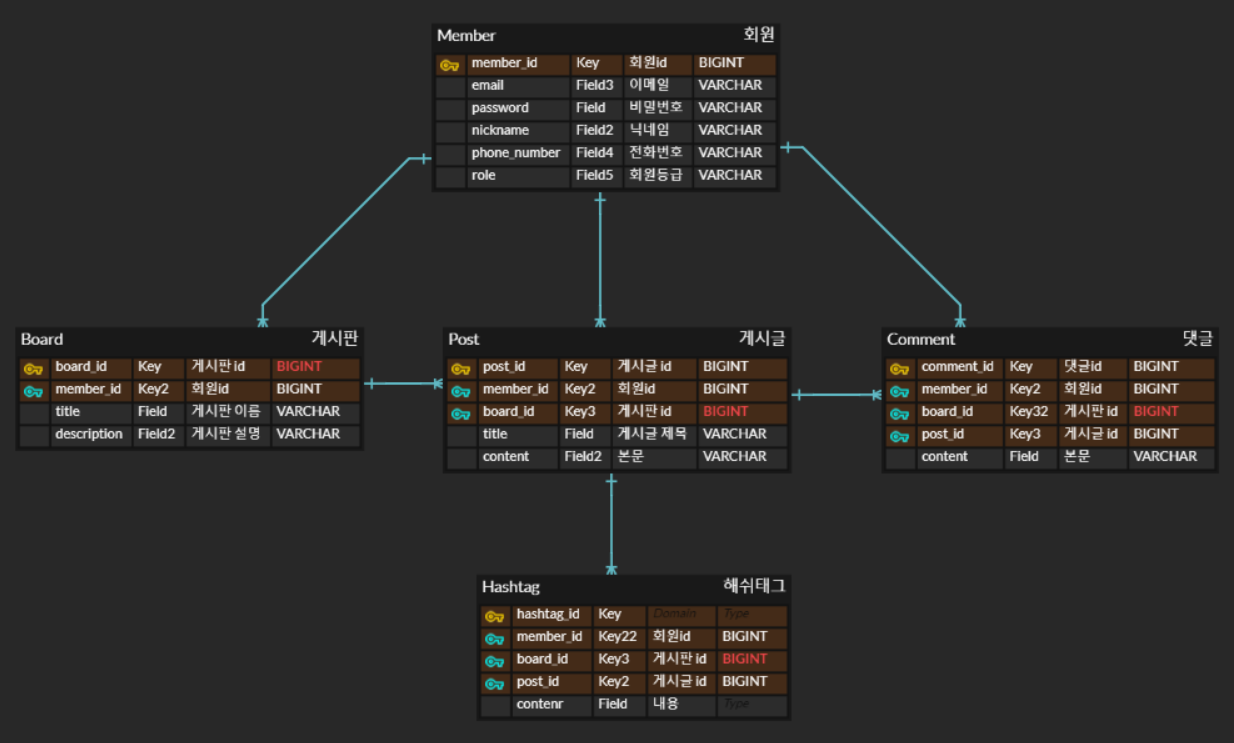
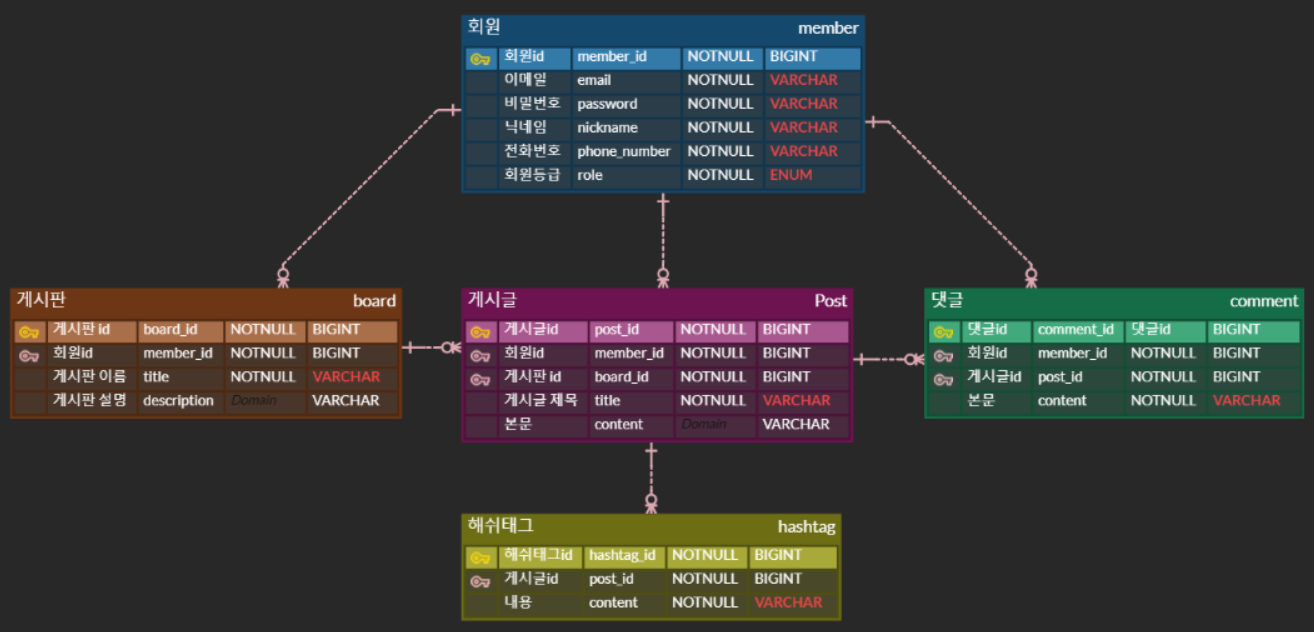
Feat : DDD(도메인 주도 설계) 방식으로 파일구조 변경 및 ERD 최신화

diff --git a/backend/src/main/java/com/junmo/junmowebsite/domain/board/entity/Post.java b/backend/src/main/java/com/junmo/junmowebsite/domain/board/entity/Post.java
@@ -1,6 +1,6 @@
-package com.junmo.junmowebsite.board.entity;
+package com.junmo.junmowebsite.domain.board.entity;
 
-import com.junmo.junmowebsite.member.entity.Member;
+import com.junmo.junmowebsite.domain.member.entity.Member;
 import jakarta.persistence.*;
 
 import java.util.List;

diff --git a/backend/src/main/java/com/junmo/junmowebsite/domain/board/entity/Board.java b/backend/src/main/java/com/junmo/junmowebsite/domain/board/entity/Board.java
@@ -1,6 +1,6 @@
-package com.junmo.junmowebsite.board.entity;
+package com.junmo.junmowebsite.domain.board.entity;
 
-import com.junmo.junmowebsite.member.entity.Member;
+import com.junmo.junmowebsite.domain.member.entity.Member;
 import jakarta.persistence.*;
 
 @Entity

diff --git a/backend/src/main/java/com/junmo/junmowebsite/domain/board/entity/Comment.java b/backend/src/main/java/com/junmo/junmowebsite/domain/board/entity/Comment.java
@@ -1,6 +1,6 @@
-package com.junmo.junmowebsite.board.entity;
+package com.junmo.junmowebsite.domain.board.entity;
 
-import com.junmo.junmowebsite.member.entity.Member;
+import com.junmo.junmowebsite.domain.member.entity.Member;
 import jakarta.persistence.*;
 
 @Entity

diff --git a/backend/src/main/java/com/junmo/junmowebsite/domain/board/entity/Hashtag.java b/backend/src/main/java/com/junmo/junmowebsite/domain/board/entity/Hashtag.java
@@ -1,6 +1,6 @@
-package com.junmo.junmowebsite.board.entity;
+package com.junmo.junmowebsite.domain.board.entity;
 
-import com.junmo.junmowebsite.member.entity.Member;
+import com.junmo.junmowebsite.domain.member.entity.Member;
 import jakarta.persistence.*;
 
 @Entity

diff --git a/backend/src/main/java/com/junmo/junmowebsite/domain/member/entity/Member.java b/backend/src/main/java/com/junmo/junmowebsite/domain/member/entity/Member.java
@@ -1,4 +1,4 @@
-package com.junmo.junmowebsite.member.entity;
+package com.junmo.junmowebsite.domain.member.entity;
 
 import jakarta.persistence.Entity;
 import jakarta.persistence.GeneratedValue;
